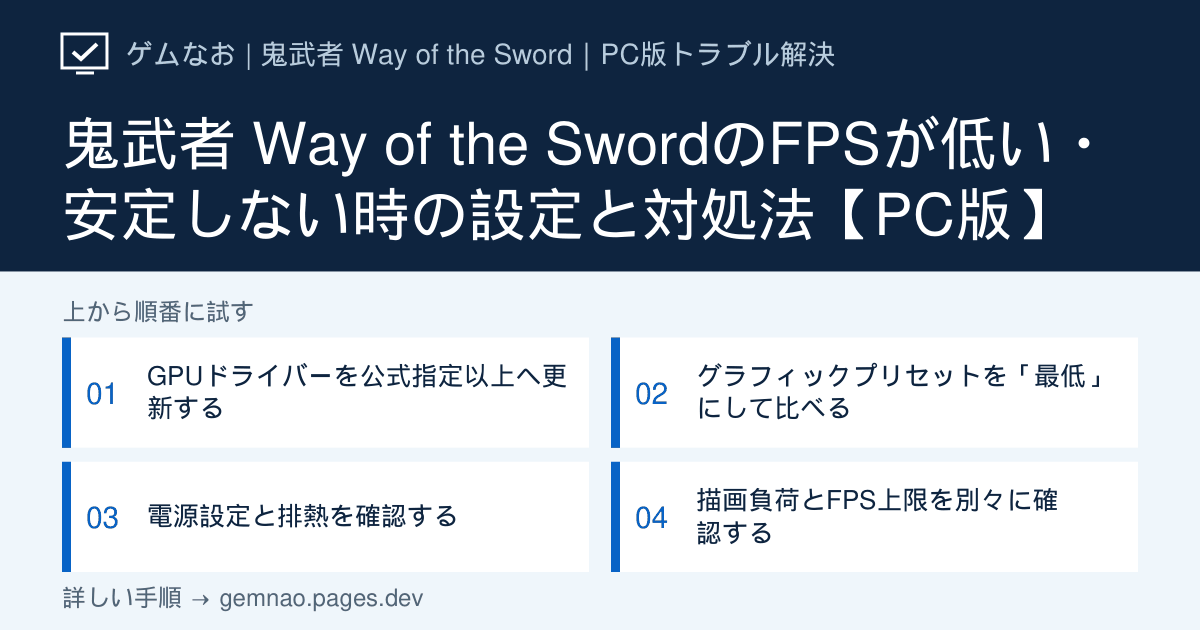
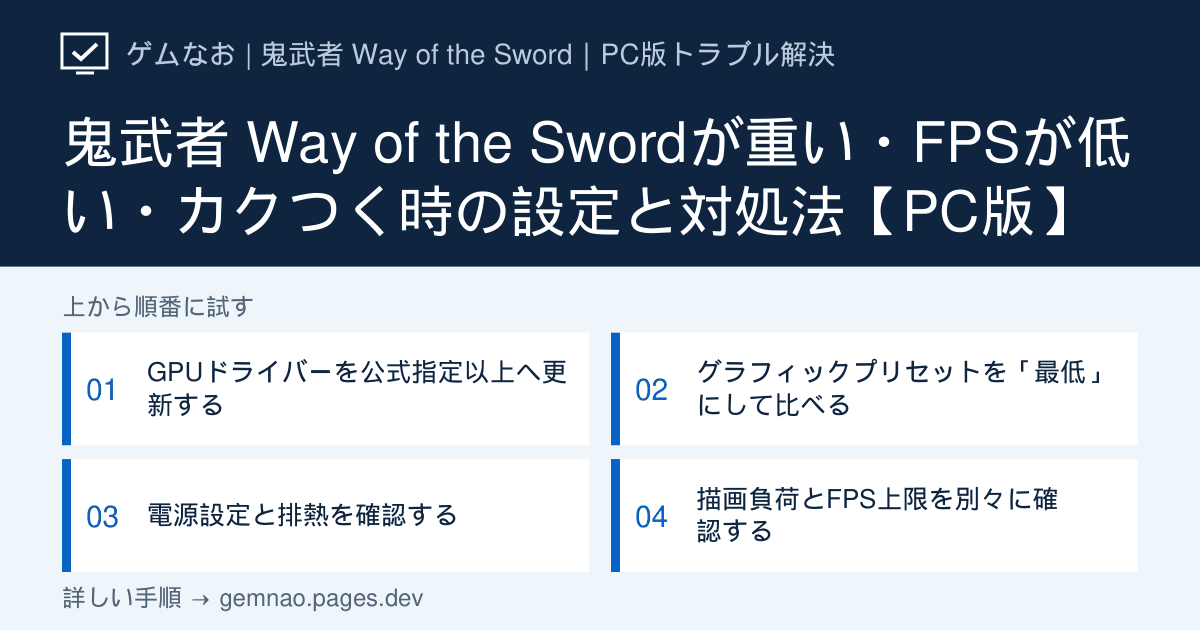
検索されている言葉に合わせて2記事を改善（Steamで起動しない・鬼武者が重い）
- Steamゲームが起動しない：タイトルに「プレイを押しても起動しない」「起動準備を行っています」を入れ、
  Steam公式FAQの基本手順（再起動→Windows Update・.NET Framework→ドライバー→整合性確認→
  妨害ソフト→システム要件）を手順2とFAQに追加。STEPの数と順番は変えていない
- 鬼武者 Way of the Sword：タイトル・説明に検索語「重い」「カクつく」を入れ、
  無料体験版で事前にFPSを測るFAQを追加

Claude-Session: https://claude.ai/code/session_012qBvfLeXJKFbVbmjsB9psj

diff --git a/lib/steam-launch-guide.ts b/lib/steam-launch-guide.ts
@@ -3,13 +3,13 @@ import type { CommonGuide } from './common-guides';
 export const steamLaunchGuide: CommonGuide = {
   slug: 'steam-game-not-launching',
   title:
-    'Steamゲームが起動しない時の対処法｜プレイ無反応・一瞬で終了を切り分ける',
+    'Steamゲームが起動しない時の対処法｜プレイを押しても起動しない・「起動準備を行っています」で止まる',
   shortTitle: 'Steamゲームが起動しない',
   description:
-    'Steamの「プレイ」を押しても無反応、一瞬「実行中」になって戻る、エラーが出る場合を分けて対処。タスクマネージャーとWindowsの信頼性履歴で起動の痕跡を確認し、結果別に次の手順を選びます。',
+    'Steamの「プレイ」を押しても起動しない、「起動準備を行っています」のあと何も起きない、一瞬「停止」になって「プレイ」に戻る場合を分けて対処。Steam公式の基本手順（Windows Update・.NET Framework・整合性確認・妨害ソフト）と、タスクマネージャー・信頼性履歴での確認を順に解説します。',
   conclusion:
     '「プレイ」を押した直後にボタンが変わるか、ゲームのプロセスが現れるかを観察します。Steam全体が反応しないならSteamを通常終了してPCを再起動。ゲームのプロセスが一瞬現れて閉じるなら信頼性履歴で同時刻のエラーを確認。表示されたエラー文があるなら名前ごとの手順を先に選びます。整合性確認やMOD停止は確認結果に合わせて1つずつ試してください。',
-  checkedAt: '2026-10-03',
+  checkedAt: '2026-10-04',
   status: 'verified',
   causes: [
     'Steamクライアント側が応答しない、別のゲームも起動しない',
@@ -28,9 +28,12 @@ export const steamLaunchGuide: CommonGuide = {
       ],
     },
     {
-      title: '無反応ならSteamとエラー表示を確認する',
+      title: '無反応・「起動準備」で止まるならSteam公式の基本手順を試す',
       actions: [
         '複数のゲームで「プレイ」が反応しない、Steamの操作も重い場合は、ダウンロード中やクラウド同期中でないか確認。Steamのメニューから通常終了し、Windowsの「スタート」→「電源」→「再起動」後にもう一度だけ起動する。',
+        '「起動準備を行っています」と出たあと何も起きない場合、Steam公式は、PCを再起動してから「Windowsを最新にする」「ドライバーを最新にする」「ゲームファイルの整合性を確認する」「Steamを妨害するソフトを止める」「システム要件を確認する」の順に試すよう案内している。',
+        'Windows Updateでは、追加の更新プログラムに出てくる.NET Frameworkも入れる。Steam公式によると、AMD Radeonのドライバーや一部のゲームは.NET Frameworkのインストールと最新の状態を必要とする。',
+        'セキュリティソフト・VPN・通信を監視するツールなど、Steamの動作を妨げるおそれのあるソフトは、Steam公式の一覧ページで確認し、1つずつ止めて比べる。止めたまま遊ばず、原因が分かったら許可設定をしてから元に戻す。',
         '「実行ファイルが見つかりません」なら対象ゲームのプロパティ→インストール済みファイル→ゲームファイルの整合性を確認。Windowsセキュリティの保護履歴でゲームのファイルが隔離されていないか調べ、無条件に許可しない。',
         '「アプリはすでに実行されています」なら、ほかの画面に隠れたランチャー・ゲームウィンドウやタスクマネージャーの対象プロセスを確認。保存中でなければ通常終了を試し、終了できない時はSteamとPCを再起動する。',
       ],
@@ -57,6 +60,12 @@ export const steamLaunchGuide: CommonGuide = {
       question: 'Steamで買ったのにEA appのログイン画面が出ます。異常ですか？',
       answer:
         '一部のEAゲームはSteam版でもEA appが必要です。対象ゲームのSteamストアの第三者DRM・外部アプリの条件を確認してください。ログインや認証で止まる場合は、そのランチャー名とエラー文を控えて公式ヘルプへ進み、原因が分からないままアカウント連携を解除しないでください。',
+    },
+    {
+      question:
+        '「起動準備を行っています」のあと、何も起きません。何から試せばいいですか？',
+      answer:
+        'Steam公式は、まずPCを再起動し、Windows（.NET Frameworkを含む）とドライバーを最新にして、ゲームファイルの整合性を確認するよう案内しています。それでも起動しない時は、Steamを妨害するおそれのあるソフトを止めて比べ、システム要件を満たしているかも確認します。公式の手順で直らない場合は、ゲームの開発元のサポートへの相談が勧められています。',
     },
     {
       question:
@@ -103,6 +112,10 @@ export const steamLaunchGuide: CommonGuide = {
     {
       label: 'Steamサポート：起動準備後にゲームが動かない場合',
       url: 'https://help.steampowered.com/ja/faqs/view/5814-D9A3-BE42-62DF',
+    },
+    {
+      label: 'Steamサポート：Steamの動作を妨害するおそれのあるプログラム',
+      url: 'https://help.steampowered.com/ja/faqs/view/1F39-DCB4-FF28-5748',
     },
     {
       label: 'Steamサポート：実行ファイルが見つからない場合',

diff --git a/lib/current-game-articles.ts b/lib/current-game-articles.ts
@@ -368,13 +368,13 @@ export const currentGameArticles: GameArticle[] = [
     checkedAt: '2026-10-03',
     targetVersion: 'Steam版・2026年10月3日にFPSとGPUの切り分け手順を再確認',
     // Shorter <title> for search results; the page heading keeps the full title.
-    seoTitle: '鬼武者 Way of the SwordのFPSが低い時の設定【PC版】',
+    seoTitle: '鬼武者 Way of the Swordが重い・FPSが低い時の設定【PC版】',
     category: 'display',
     title:
-      '鬼武者 Way of the SwordのFPSが低い・安定しない時の設定と対処法【PC版】',
+      '鬼武者 Way of the Swordが重い・FPSが低い・カクつく時の設定と対処法【PC版】',
     shortTitle: 'FPS低下・不安定',
     symptom:
-      'フレームレートが低い、場面によって急に重くなる、ノートPCで重い、録画・配信中に重い場合の確認手順です。',
+      'PC版が重い、フレームレートが低い・安定しない、場面によって急にカクつく、ノートPCで重い、録画・配信中に重い場合の確認手順です。',
     conclusion:
       'カプコンの公式ガイドは、フレームレートが安定しない場合に「設定＞グラフィックス＞グラフィックプリセット」を「最低」にするよう案内しています。あわせてGPUドライバーを公式指定以上へ更新し、ノートPCは電源と排熱を確認します。',
     description:
@@ -525,10 +525,19 @@ export const currentGameArticles: GameArticle[] = [
         answer:
           'カプコンの公式ガイドでは、モバイルGPUや外付けGPUは基本的に動作保証の対象外とされています。遊ぶ場合は、充電器の接続、高パフォーマンスの電源設定、高パフォーマンスGPUの選択を確認してください。',
       },
+      {
+        question: '購入前に、自分のPCで重いかどうか確かめられますか？',
+        answer:
+          'Steamで無料の体験版（鬼武者 Way of the Sword DEMO）が配信されています。体験版で、この記事の手順2の方法で同じ場面のFPSを測っておくと、製品版でどの設定を選べばよいかの目安になります。',
+      },
     ],
     sources: [
       sources.capcom,
       sources.steam,
+      {
+        label: 'Steamストア：鬼武者 Way of the Sword DEMO（無料体験版）',
+        url: 'https://store.steampowered.com/app/3974650/',
+      },
       sources.pcgw,
       {
         label: 'NVIDIA公式：DLSSの対応GPU（英語）',
@@ -550,7 +559,7 @@ export const currentGameArticles: GameArticle[] = [
       'black-screen',
     ],
     metaDescription:
-      '鬼武者 Way of the Sword PC版のFPSが低い時の対処法。公式が案内するグラフィックプリセット「最低」、最低・推奨環境ごとのfps目安、DLSS・FSRとFPS上限、ノートPCの電源と排熱、配信時のメモリまで解説。',
+      '鬼武者 Way of the Sword PC版が重い・FPSが低い時の対処法。公式が案内するグラフィックプリセット「最低」、最低・推奨環境ごとのfps目安、DLSS・FSRとFPS上限、ノートPCの電源と排熱、配信時のメモリまで解説。',
   }),
   make({
     slug: 'shader-cache',

diff --git a/lib/og-image-manifest.ts b/lib/og-image-manifest.ts
@@ -117,7 +117,7 @@ export const ogImageManifest: Record<string, string> = {
   "/games/onimusha-way-of-the-sword/crash-report": "6f981b7f",
   "/games/onimusha-way-of-the-sword/gpu-driver-version": "e83221a2",
   "/games/onimusha-way-of-the-sword/hdr": "b6142e60",
-  "/games/onimusha-way-of-the-sword/low-fps": "2e598507",
+  "/games/onimusha-way-of-the-sword/low-fps": "62a0069a",
   "/games/onimusha-way-of-the-sword/not-launching": "f517c8e3",
   "/games/onimusha-way-of-the-sword/shader-cache": "14861f9f",
   "/games/palworld": "5de18a32",
